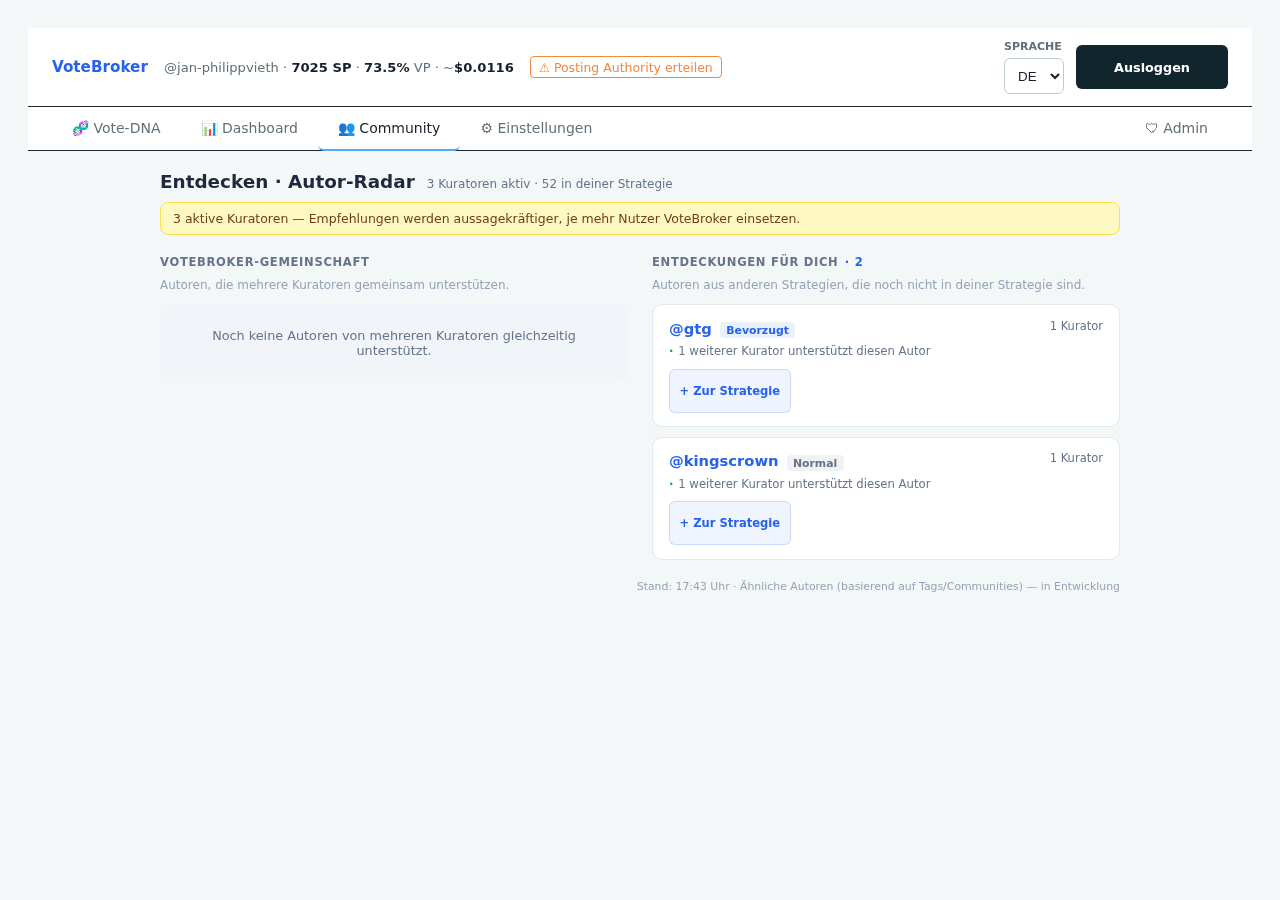
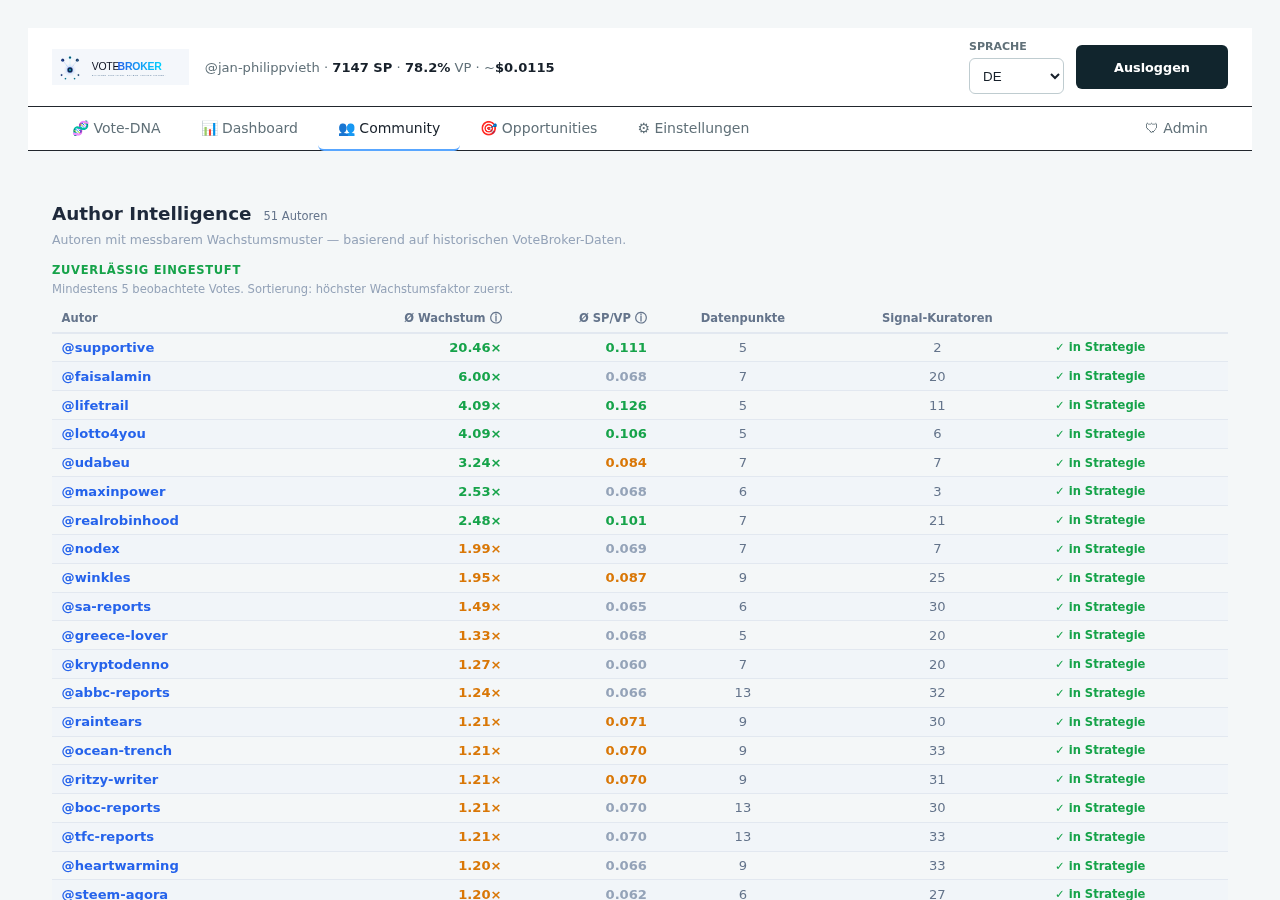
docs: update Community section to Author Intelligence, refresh screenshot

diff --git a/README.md b/README.md
@@ -61,10 +61,10 @@ Die Opportunities sind direkt im Dashboard votebar oder lassen sich mit einem Kl
 
 ![Opportunity Scanner – Score-Detail](docs/assets/opportunities_score.png)
 
-### Community-Radar
-Der Community-Tab zeigt welche Autoren von mehreren VoteBroker-Nutzern gleichzeitig gevoted werden — ein organisches Signal für besonders interessante Accounts. Außerdem werden Autoren aus anderen Strategien als Entdeckungsvorschläge angezeigt.
+### Author Intelligence
+Der Community-Tab zeigt alle Autoren in der eigenen Strategie gerankt nach historischem Wachstumsfaktor (wie stark wächst ein Post nach dem Vote), SP/VP-Effizienz und Anzahl beobachteter Datenpunkte aus der VoteBroker-Datenbank. So ist auf einen Blick erkennbar, welche Autoren konstant starke Curation-Ergebnisse liefern.
 
-![Community Autor-Radar](docs/assets/community.png)
+![Author Intelligence](docs/assets/community.png)
 
 ### Post Scanner
 Ein zentraler Blockchain-Adapter lädt alle 90 Sekunden neue Posts aller überwachten Autoren aus der Steem-Chain und schreibt sie lokal in SQLite. Alle nachgelagerten Scanner lesen aus diesem Cache statt direkt per RPC — das reduziert Latenz und Blockchain-Last erheblich.